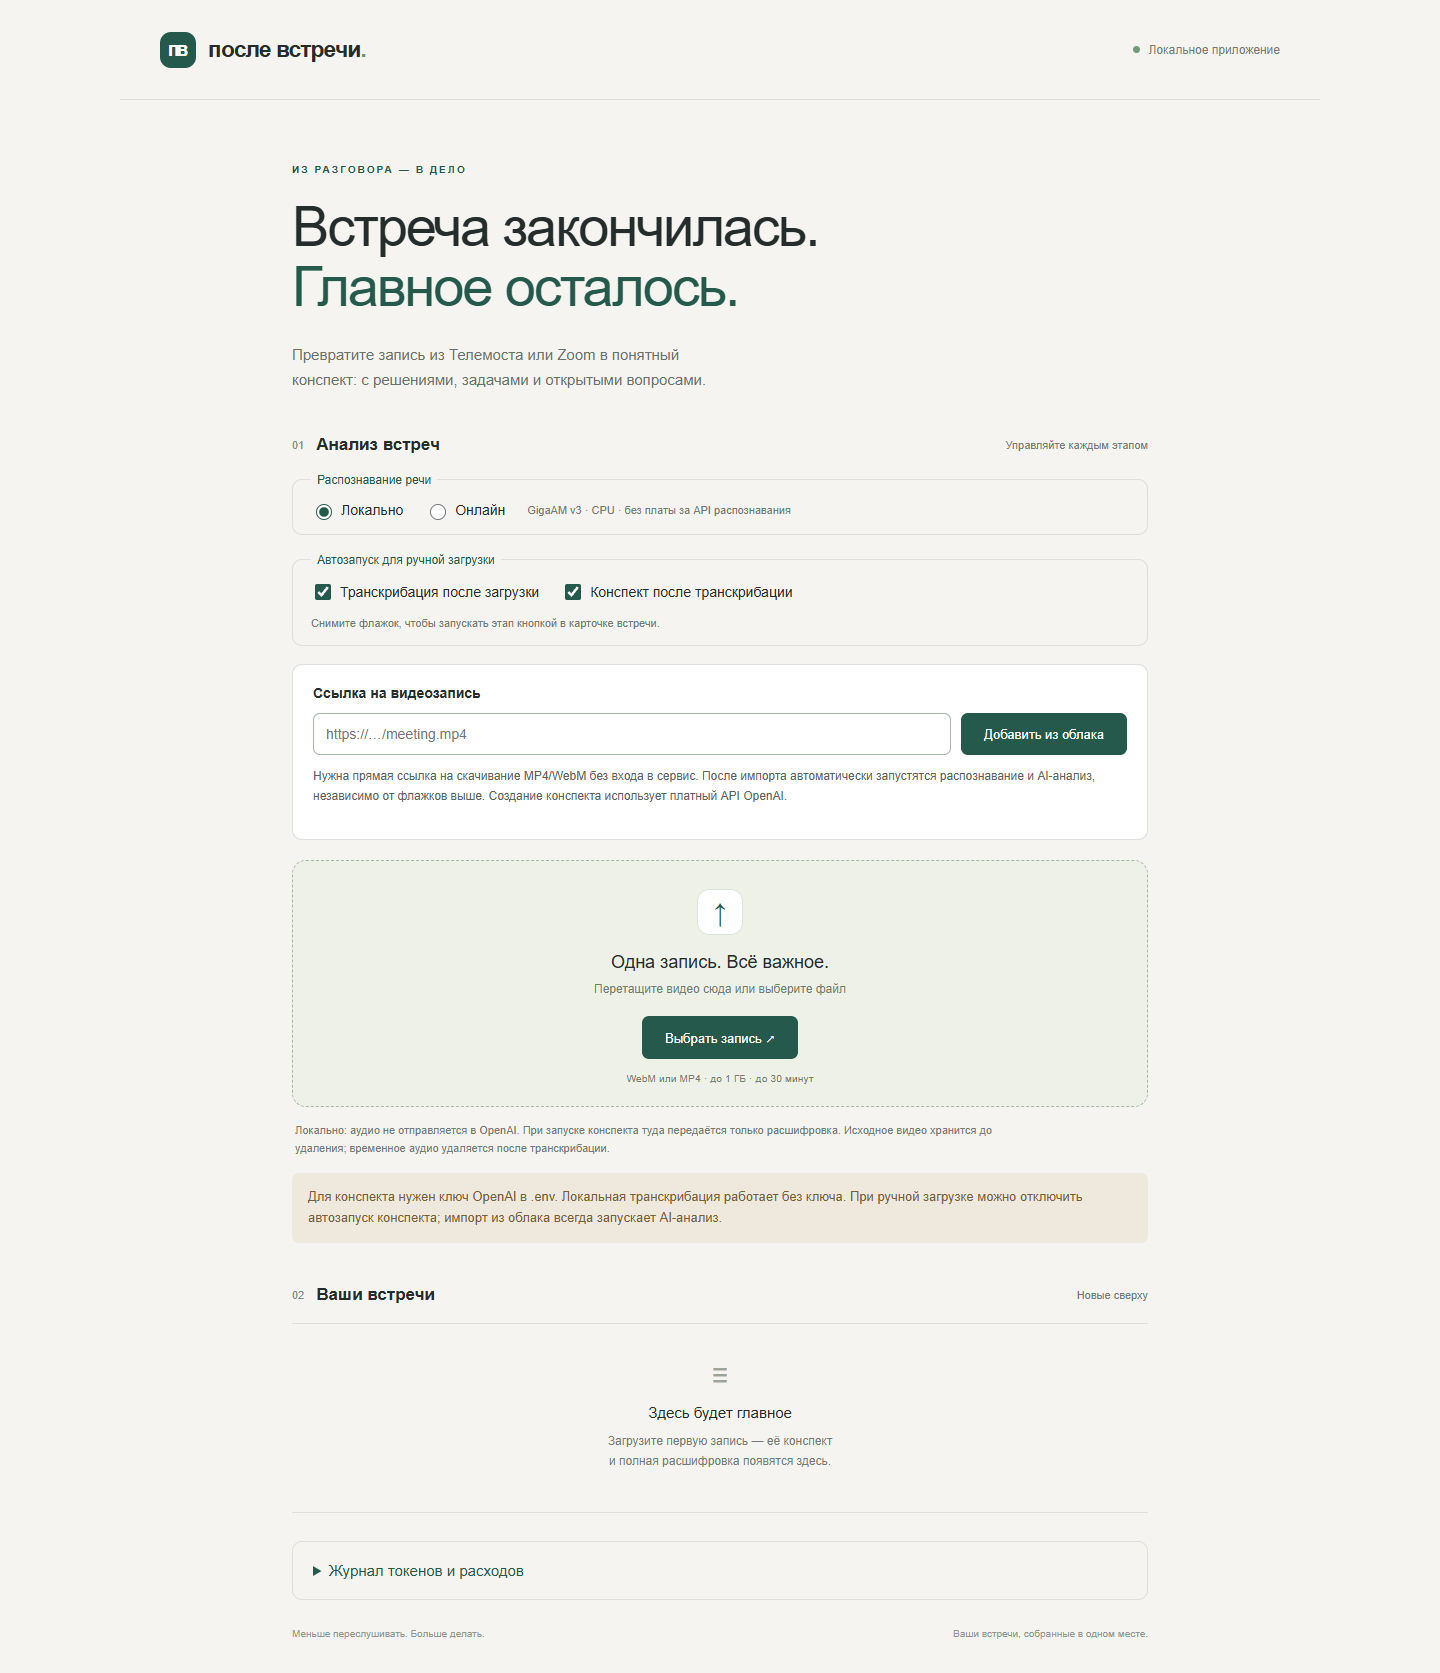
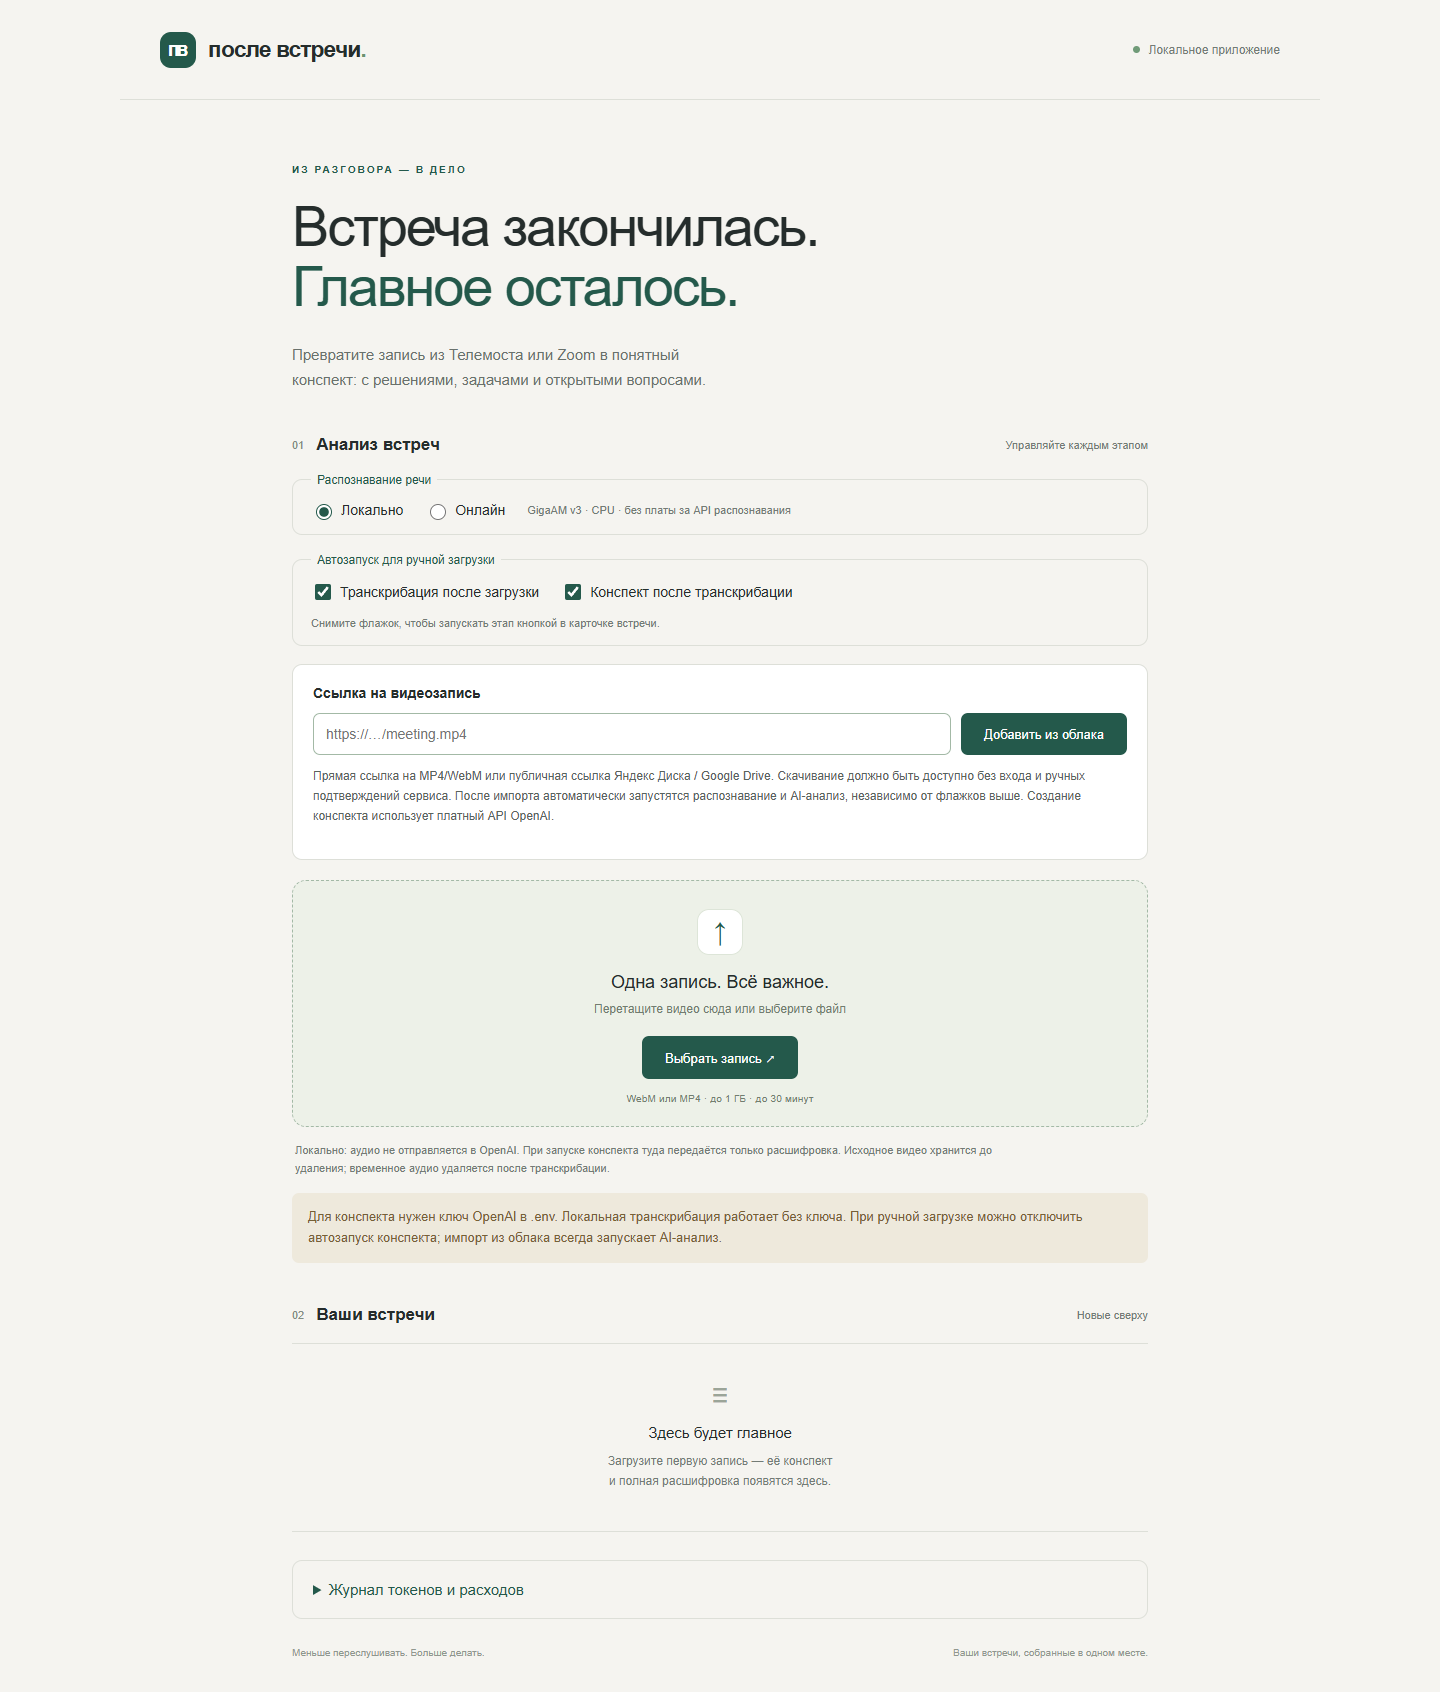
Resolve public cloud share links and clarify provider download restrictions

diff --git a/public/index.html b/public/index.html
@@ -24,7 +24,7 @@
       <form id="cloud-form" class="cloud-import">
         <label for="cloud-url">Ссылка на видеозапись</label>
         <div class="cloud-input-row"><input id="cloud-url" name="url" type="url" inputmode="url" autocomplete="off" placeholder="https://…/meeting.mp4" maxlength="8192" required aria-describedby="cloud-help"><button id="cloud-add" type="submit">Добавить из облака</button></div>
-        <p id="cloud-help">Нужна прямая ссылка на скачивание MP4/WebM без входа в сервис. После импорта автоматически запустятся распознавание и AI-анализ, независимо от флажков выше. Создание конспекта использует платный API OpenAI.</p>
+        <p id="cloud-help">Прямая ссылка на MP4/WebM или публичная ссылка Яндекс Диска / Google Drive. Скачивание должно быть доступно без входа и ручных подтверждений сервиса. После импорта автоматически запустятся распознавание и AI-анализ, независимо от флажков выше. Создание конспекта использует платный API OpenAI.</p>
         <div id="cloud-result" role="status" aria-live="polite" hidden></div>
       </form>
       <div class="dropzone" id="dropzone">

diff --git a/README.md b/README.md
@@ -86,7 +86,9 @@ npm run test:local -- "C:\Videos\встреча.mp4" "C:\Videos\встреча.w
 
 Карточка показывает имя полученного файла, источник **«Из облака»** или **«Загружено вручную»**, дату добавления, текущий этап и готовое резюме. Состояния фоновой задачи: **«Получение файла»**, **«Распознавание речи»**, **«AI-анализ»**, **«Готово»**, **«Ошибка»**. Процент прогресса не выдумывается. Можно закрыть или обновить браузер после принятия ссылки: задача продолжает выполняться на сервере, результат сохраняется в JSON/TXT. Закрытие самого сервера прерывает задачу; после запуска она отмечается ошибкой, автоматического восстановления нет.
 
-Если облачный сервис вернул страницу просмотра, входа, подтверждения скачивания или отказ в доступе, приложение покажет объяснение и предложит **скачать файл самостоятельно и загрузить через «Выбрать запись»**. Сессия браузера, cookies и учётные данные облака не используются; ограничения доступа не обходятся. Универсального преобразования ссылок просмотра Google Drive, Яндекс Диска и других сервисов в ссылки скачивания нет. При ошибке получения доступна кнопка **«Повторить получение»**, при ошибке последующего этапа — обычная **«Повторить»**.
+Для публичных ссылок **Яндекс Диска** (`/i/…`, `/d/…`, в том числе `yadi.sk`) приложение получает адрес скачивания через публичный API — [пример в документации Яндекса](https://github.com/yandex-cloud/docs/blob/master/ru/datasphere/operations/data/connect-to-ya-disk.md). Для **Google Drive** поддерживаются ссылки `/file/d/…/view`, `/open?id=…` и `/uc?id=…`: приложение обращается к адресу скачивания, сохраняя `resourcekey`, если он есть. У остальных сервисов по-прежнему нужна прямая ссылка на файл.
+
+Если облачный сервис требует вход, ручное подтверждение скачивания или запрещает доступ, приложение показывает точную причину и предлагает **скачать файл самостоятельно и загрузить через «Выбрать запись»**. Предупреждение Google Drive о невозможности проверки файла на вирусы не подтверждается автоматически. Для ограничения частоты запросов (HTTP 429) и временной недоступности API Яндекс Диска выводятся отдельные сообщения; бесконечных повторов и обхода лимитов нет. Сессия браузера, cookies и учётные данные облака не используются; ограничения доступа не обходятся. При ошибке получения доступна кнопка **«Повторить получение»**, при ошибке последующего этапа — обычная **«Повторить»**.
 
 Повторная нормализованная ссылка возвращает существующую карточку без повторного скачивания и анализа, включая состояние ошибки или незавершённую задачу. У готовой карточки предлагается **«Открыть готовый результат»**. Нормализация удаляет фрагмент `#…`, приводит адрес к стандартной форме, но сохраняет параметры подписанных ссылок. Файл также получает SHA-256: если другая ссылка вернула уже проанализированный файл, новая карточка содержит переход к готовому результату, повторный AI-запрос не выполняется, лишняя копия видео удаляется. После удаления исходной встречи связанные карточки-дубли удаляются вместе с ней.
 

diff --git a/CHECKS.md b/CHECKS.md
@@ -18,12 +18,13 @@ npm run test:ui:cloud
 
 ## Последний подтверждённый результат
 
-8 ноября 2026: `npm test` — **24 теста прошли, ошибок и пропусков нет**. `npm run test:ui` — **пройдено** на ширине 1440 и 390 px с настоящей двухминутной записью. `npm run test:ui:cloud` — **пройдено** на тех же размерах экрана.
+8 ноября 2026: `npm test` — **26 тестов прошли, ошибок и пропусков нет**. `npm run test:ui` — **пройдено** на ширине 1440 и 390 px с настоящей двухминутной записью. `npm run test:ui:cloud` — **пройдено** на тех же размерах экрана.
 
 Проверено:
 
 - Облачный импорт: принятие ссылки фоновой задачей, состояния получения и AI-анализа, автоматическое распознавание, нормализация URL, повторная ссылка без нового задания, SHA-256 и повторный файл по другому URL без второго анализа, сохранение результата после перезапуска.
 - Безопасность скачивания: запрет локальных/служебных IPv4/IPv6, недопустимых схем и портов; перенаправления, ограничения размера по заголовку и потоку, HTML вместо видео, отказ доступа и ошибки сети, очистка частичных файлов.
+- Публичные ссылки Яндекс Диска: запрос API с Accept JSON, проверка ответа и адреса скачивания, отдельные ошибки 403/429/5xx. Google Drive: преобразование ссылки просмотра, сохранение resourcekey, отсутствие автоматического подтверждения предупреждения о проверке файла на вирусы. Проверки используют тестовые публичные идентификаторы, без публикации пользовательских ссылок.
 - Браузерный импорт: выключенные флажки ручной загрузки не мешают автоанализу облачной записи; обновление страницы во время получения; отображение источника, повторная ссылка, понятная ошибка авторизации и запасной вариант ручной загрузки.
 - Приём MP4/WebM, повреждённые и пустые файлы, отсутствие аудио, тишина и отсутствие API-ключа.
 - Ручные и автоматические этапы, запрет одновременной обработки и повторного запуска завершённого этапа, сохранение состояния после перезапуска.
